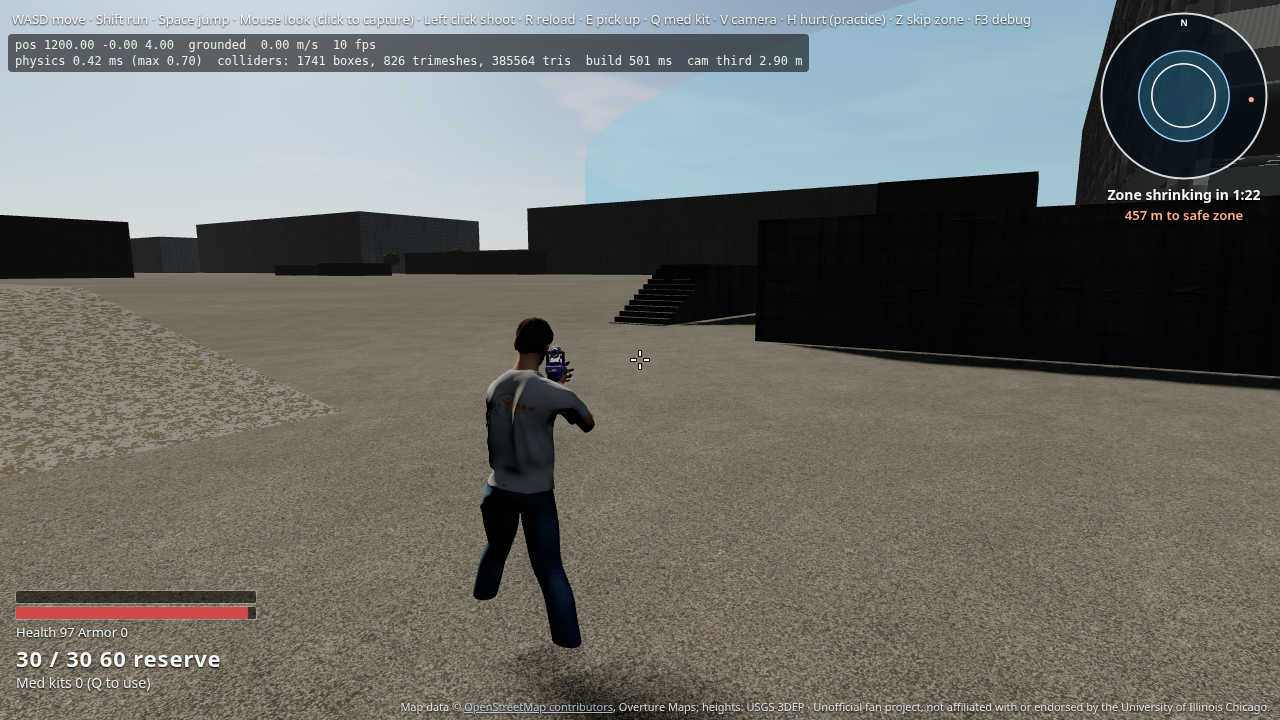
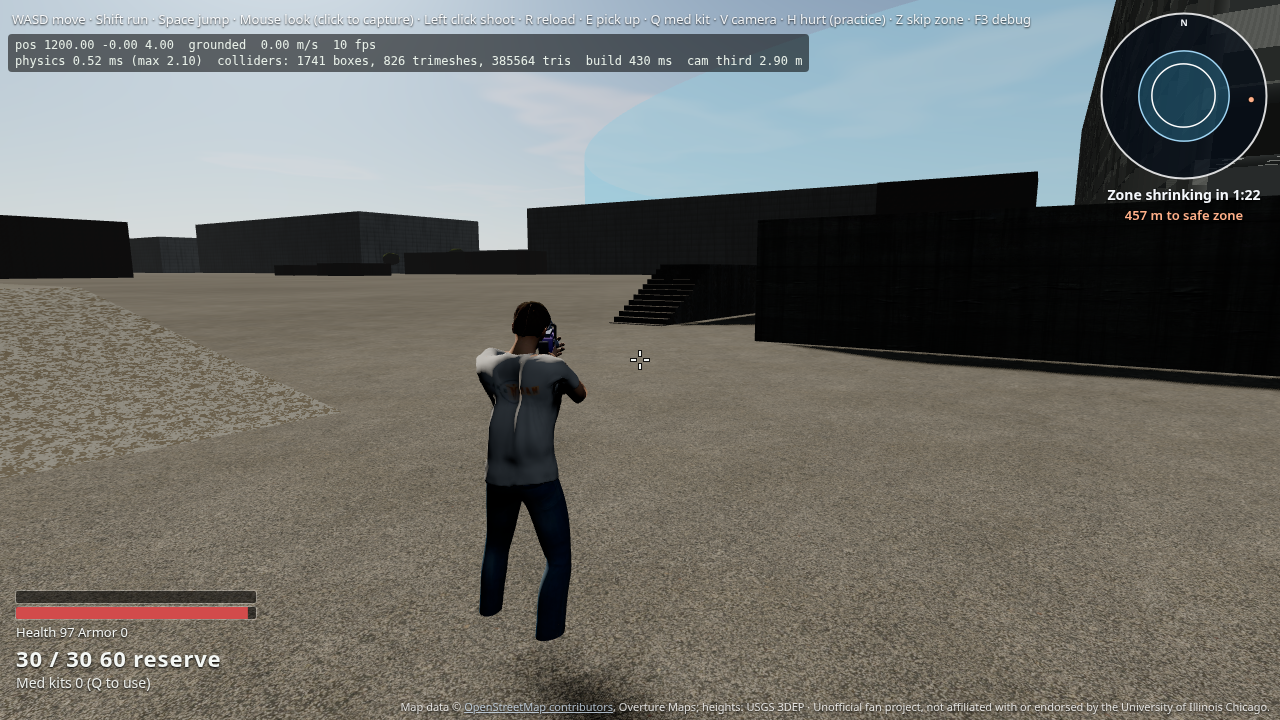
Fix flinch piling up on spine bones; rifle bake README; retake screenshots on merged main

diff --git a/client/src/player/characterLoader.ts b/client/src/player/characterLoader.ts
@@ -539,6 +539,8 @@ class AnimatedCharacter implements CharacterVisual {
   private hipLift = 0;
   private deadTip = 0;
   private readonly flinchQ = new THREE.Quaternion();
+  private readonly flinchBase = [new THREE.Quaternion(), new THREE.Quaternion()];
+  private flinchApplied = false;
   private readonly flinchAxis = new THREE.Vector3(1, 0, 0);
   private readonly flinchDir = new THREE.Vector3(0, 0, 1);
   private groundProbe: GroundProbe | null = null;
@@ -693,6 +695,13 @@ class AnimatedCharacter implements CharacterVisual {
     this.flinchT = Math.max(0, this.flinchT - dt);
     if (this.hipLift && this.hips) this.hips.position.y -= this.hipLift;
     this.hipLift = 0;
+    // Undo last frame's additive flinch: the mixer does not rewrite spine bones that no active clip
+    // animates, and the kick would otherwise pile up frame after frame (a folded-over torso).
+    if (this.flinchApplied) {
+      if (this.spine) this.spine.quaternion.copy(this.flinchBase[0]);
+      if (this.spine1) this.spine1.quaternion.copy(this.flinchBase[1]);
+      this.flinchApplied = false;
+    }
     this.mixer.update(dt);
     if (deathW > 0 && this.hips) {
       const action = this.full.get('death')!;
@@ -702,6 +711,9 @@ class AnimatedCharacter implements CharacterVisual {
     if (this.flinchT > 0 && this.spine && deathW === 0) {
       const u = 1 - this.flinchT / 0.28;
       const amp = Math.sin(Math.min(1, Math.max(0, u)) * Math.PI) * 0.55;
+      this.flinchBase[0].copy(this.spine.quaternion);
+      if (this.spine1) this.flinchBase[1].copy(this.spine1.quaternion);
+      this.flinchApplied = true;
       this.flinchQ.setFromAxisAngle(this.flinchAxis, amp);
       this.spine.quaternion.multiply(this.flinchQ);
       // Slight additive on Spine1 if present (upper-chest kick).

diff --git a/tools/anim-bake/README.md b/tools/anim-bake/README.md
@@ -13,3 +13,9 @@ That is only right when both rests have the same limb directions, so before baki
 rotation is swung so its bone axis matches the MakeHuman rest (legs, spine, arms, clavicles; feet keep
 their own flat rest). A small stance tidy then narrows the standing clips to about shoulder width.
 Env knobs: `LEG_IN`, `LEG_FB`, `ARM_IN` (degrees), `NOALIGN=1` to reproduce the old bake.
+
+## Rifle (`rifle.mjs`)
+Builds `client/public/models/weapons/rifle_cc0.glb` from Kenney's Blaster Kit 2.1 `blaster-f` (CC0, https://kenney.nl/assets/blaster-kit). It wraps the model in a `rifle` node at scale 0.65 (barrel along -Z) and adds `Grip`, `Foregrip` and `Muzzle` socket nodes, which `client/src/player/rifle.ts` uses for the two-hand IK and the muzzle flash.
+
+    npx -y -p @gltf-transform/core -p @gltf-transform/extensions node tools/anim-bake/rifle.mjs \
+      "<kit>/Models/GLB format/blaster-f.glb" client/public/models/weapons/rifle_cc0.glb
